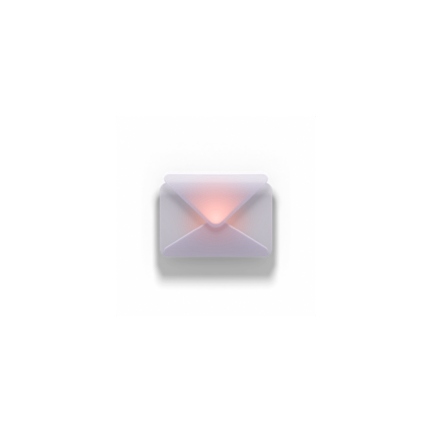
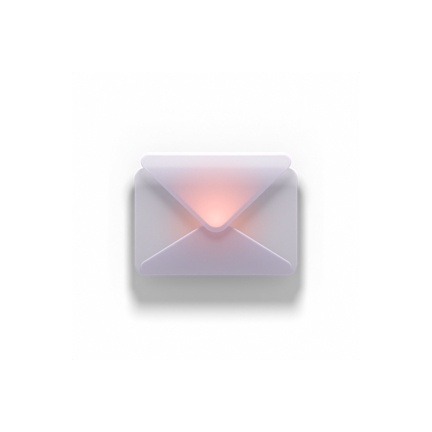
Increase Android adaptive envelope size
Claude-Session: https://claude.ai/code/session_013SQgeHioqiMB6p9JPGMZRn

Changed region(s): [[0.2708, 0.3611, 0.7222, 0.7222]]

diff --git a/brand/app-icon/export/README.md b/brand/app-icon/export/README.md
@@ -18,8 +18,9 @@ Both are opaque 1024 px squares without baked-in rounding.
 on transparency, as requested; it is a tint input, not an opaque App Store icon.
 
 Android layers are 432 px: `android-background.png` uses the full-bleed background;
-`android-foreground.png` scales the envelope and shadow inside a central circle
-with diameter 66% of the canvas. `android-monochrome.png` uses the same placement
+`android-foreground.png` scales the envelope and glow by 72/108, making the envelope about 37% of
+the canvas width. The envelope fits the 66 dp diameter safe circle on a 108 dp
+canvas; faint shadow tails may extend outside that circle. `android-monochrome.png` uses the same placement
 and alpha coverage with white colour on transparency.
 
 The iconset covers 16–1024 px including @2x. ICO sizes: 16, 24, 32, 48, 64, 128, 256.
